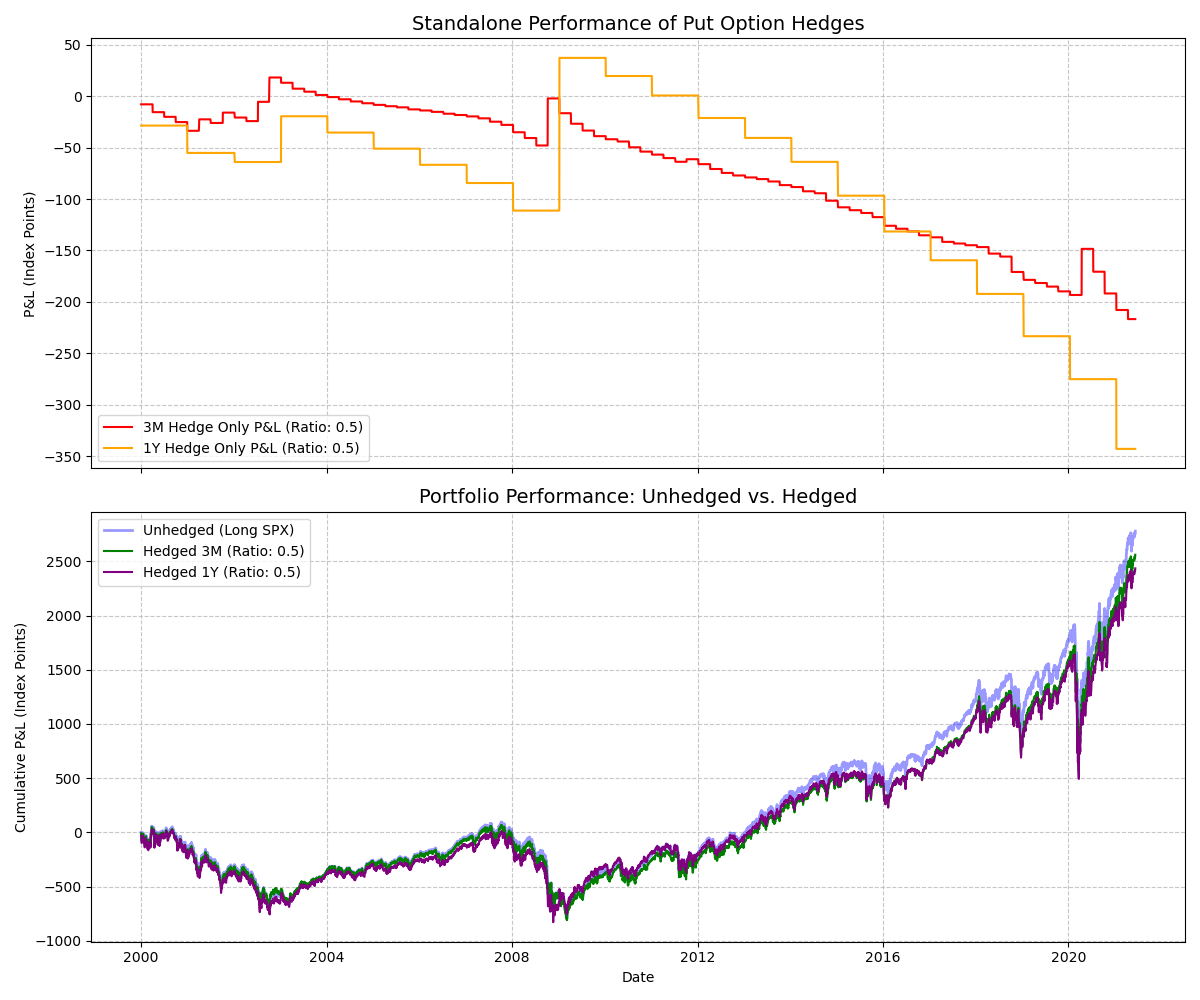
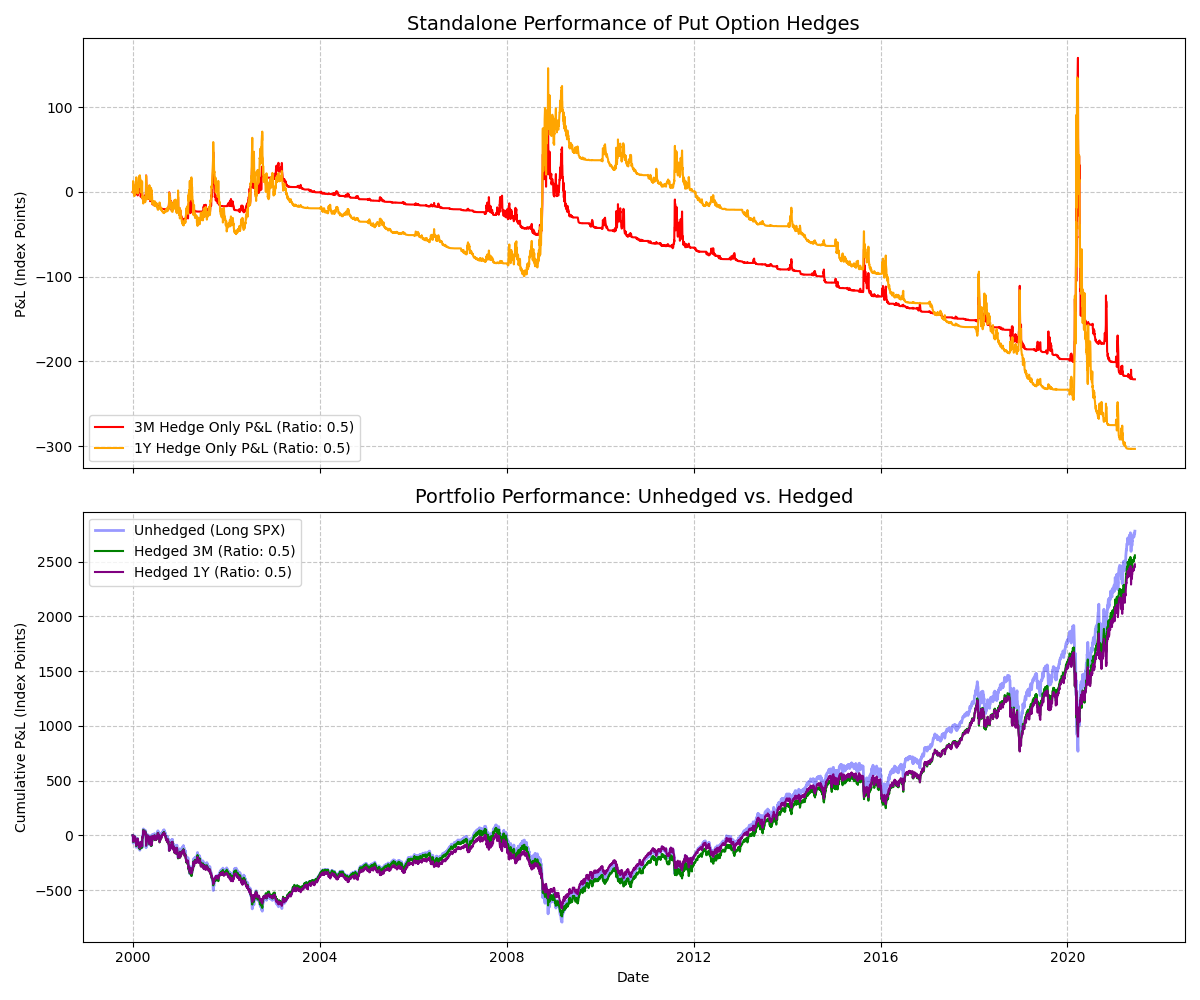
q1 new pnl results

diff --git a/quant_strat_interview/q1_rolling_hedge.py b/quant_strat_interview/q1_rolling_hedge.py
@@ -70,7 +70,7 @@ def calculate_hedge_pnl(df, vol_col, roll_period, r=0.01, q=0.0, hedge_ratio=1.0
 
 # 3. Define your target ratio (e.g., 0.5 for 50% notional protection)
 # You can adjust this variable to test different drawdown limits
-target_ratio = 1
+target_ratio = 2
 
 # Run the simulations (63 days for 3M, 252 days for 1Y)
 df['Hedge_Only_90D'] = calculate_hedge_pnl(df, 'Vol_3M', 63, hedge_ratio=target_ratio)
